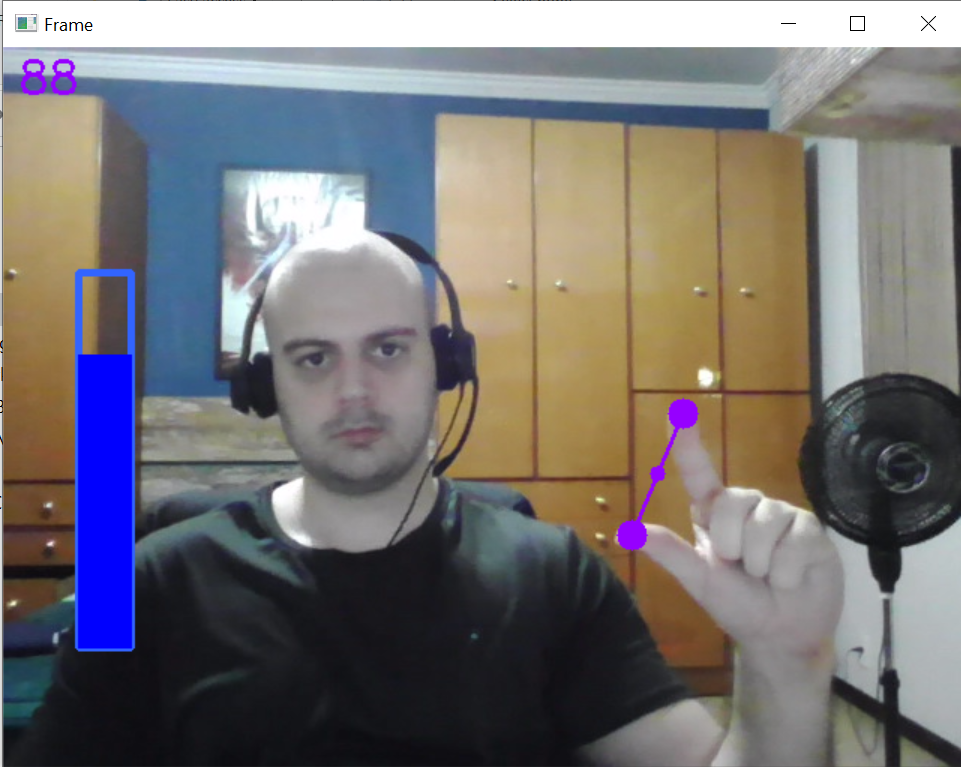
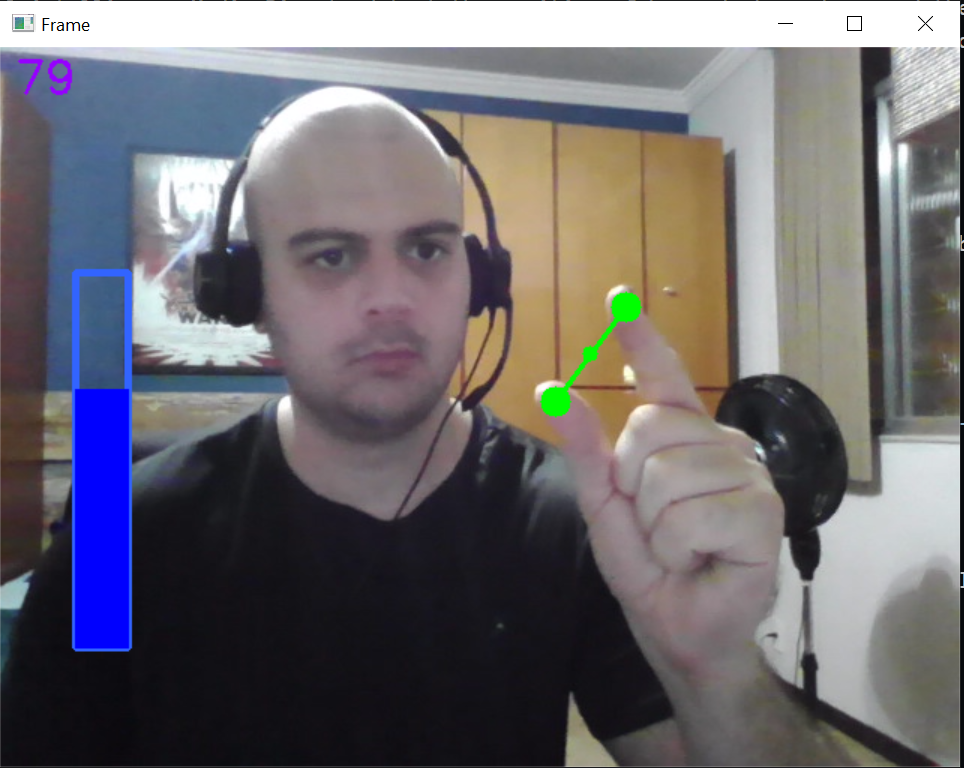
Resultados

diff --git a/VolumeHandControl.py b/VolumeHandControl.py
@@ -40,11 +40,11 @@ while True:
         cx,cy = (x1+x2)//2, (y1+y2)//2
 
 
-        cv2.circle(frame, (x1,y1), 10, (255, 0, 150), cv2.FILLED)
-        cv2.circle(frame, (x2,y2), 10, (255, 0, 150), cv2.FILLED)
-        cv2.circle(frame, (cx,cy), 5, (255, 0, 150), cv2.FILLED)
+        cv2.circle(frame, (x1,y1), 10, (0, 255, 0), cv2.FILLED)
+        cv2.circle(frame, (x2,y2), 10, (0, 255, 0), cv2.FILLED)
+        cv2.circle(frame, (cx,cy), 5, (0, 255, 0), cv2.FILLED)
 
-        cv2.line(frame, (x1,y1), (x2,y2), (255, 0, 150), 2)
+        cv2.line(frame, (x1,y1), (x2,y2), (0, 255, 0), 2)
 
         length = round(math.hypot(x2-x1, y2-y1))
         cv2.putText(frame, str(length), (10,30), cv2.FONT_HERSHEY_SIMPLEX, 1, (255, 0, 150), 2)
